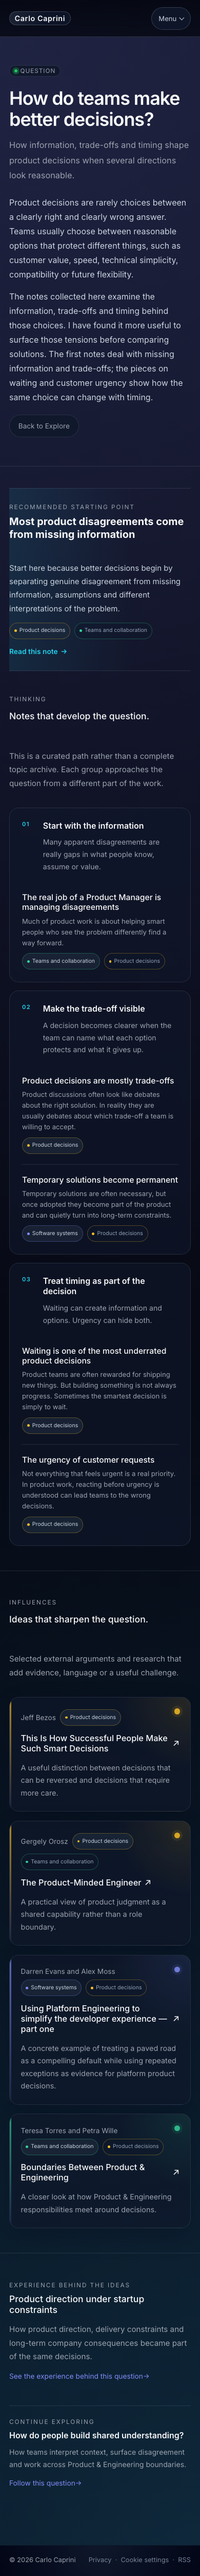
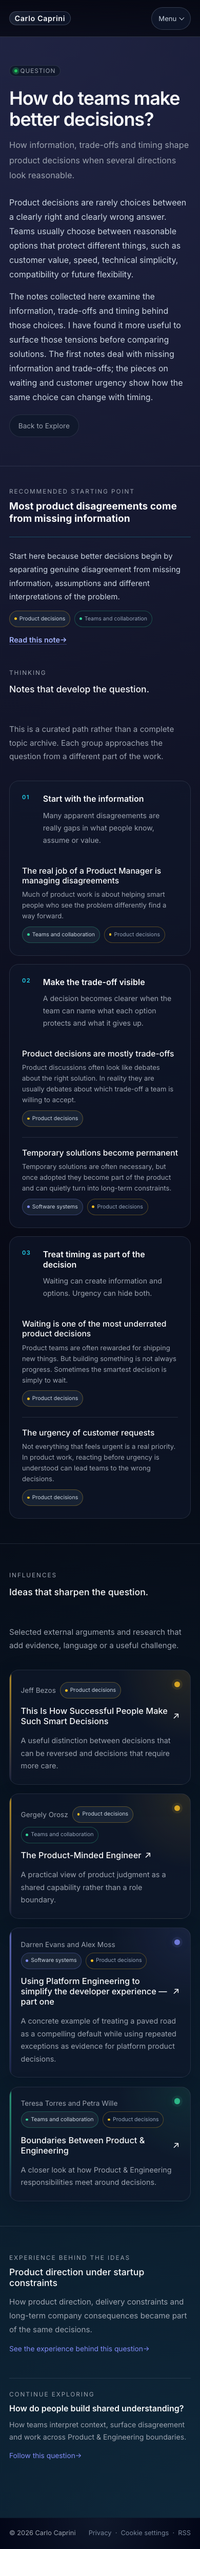
refactor: align Explore entry points with design system

Changed region(s): [[0.0308, 0.1874, 0.9538, 0.9682], [0.0308, 0.0312, 0.8923, 0.1562]]

diff --git a/_includes/styles/thinking-and-explore.css b/_includes/styles/thinking-and-explore.css
@@ -491,7 +491,7 @@ a.content-topic-link:hover {
 
 .question-path-entry-label {
   color: var(--brand-accent);
-  font-size: 0.68rem;
+  font-size: 0.7rem;
   font-weight: 600;
   letter-spacing: 0.08em;
   text-transform: uppercase;
@@ -534,20 +534,21 @@ a.content-topic-link:hover {
 .question-entry-point {
   display: grid;
   grid-template-columns: minmax(0, 0.8fr) minmax(0, 1.2fr);
-  gap: 2.5rem;
+  gap: 0;
   align-items: start;
-  padding: 1.8rem 0;
-  border-top: 1px solid var(--color-line);
-  border-bottom: 1px solid var(--color-line);
-  background: linear-gradient(90deg, var(--brand-accent-soft), transparent 68%);
 }
 
 .question-entry-heading h2 {
   max-width: 30rem;
   margin: 0.55rem 0 0;
   color: var(--color-text);
-  font-size: clamp(1.25rem, 2vw, 1.65rem);
+  font-size: clamp(1.2rem, 1.8vw, 1.45rem);
   line-height: 1.25;
+}
+
+.question-entry-content {
+  padding-left: 2.5rem;
+  border-left: 1px solid var(--brand-accent-border);
 }
 
 .question-entry-content p {
@@ -562,19 +563,9 @@ a.content-topic-link:hover {
   margin-top: 0.85rem;
 }
 
-.question-entry-link {
-  display: inline-flex;
-  gap: 0.35rem;
+.question-entry-content .question-entry-link {
   margin-top: 1rem;
-  color: var(--brand-accent);
-  font-size: 0.86rem;
   font-weight: 600;
-  text-decoration: none;
-}
-
-.question-entry-link:hover {
-  text-decoration: underline;
-  text-underline-offset: 0.2em;
 }
 
 .question-note-groups {

diff --git a/tests/browser/editorial-journeys.spec.js b/tests/browser/editorial-journeys.spec.js
@@ -203,7 +203,11 @@ test("question pages connect Thinking, Influences and Experience", async ({ page
   await expect(entryPoint.getByText("Recommended starting point", { exact: true })).toBeVisible();
   await expect(entryPoint.getByRole("heading", { name: "Most product disagreements come from missing information" })).toBeVisible();
   await expect(entryPoint.getByText("Start here because better decisions begin by separating genuine disagreement from missing information, assumptions and different interpretations of the problem.", { exact: true })).toBeVisible();
+  await expect(entryPoint).toHaveCSS("background-image", "none");
+  await expect(entryPoint).toHaveCSS("border-radius", "0px");
+  await expect(entryPoint.locator(".content-topic-list a")).toHaveCount(0);
   const entryLink = entryPoint.getByRole("link", { name: "Read this note: Most product disagreements come from missing information" });
+  await expect(entryLink).toHaveClass(/section-link/);
   await expect(entryLink).toHaveAttribute("href", "/thinking/most-product-disagreements-come-from-missing-information/");
   await expect(entryLink).toHaveAttribute("data-analytics-link-context", "question_entry_point");
   await expect(page.locator('a[href="/thinking/most-product-disagreements-come-from-missing-information/"]')).toHaveCount(1);

diff --git a/_layouts/question.html b/_layouts/question.html
@@ -40,7 +40,7 @@ layout: default
           <span class="content-topic-list" aria-label="Topics">
             {% include content-topic-items.html topics=entry_note.topics %}
           </span>
-          <a class="question-entry-link" href="{{ entry_note.url | relative_url }}" aria-label="Read this note: {{ entry_note.title | escape }}" data-analytics-event="note_open" data-analytics-note-id="{{ entry_note.url | escape }}" data-analytics-question-id="{{ question.slug | escape }}" data-analytics-link-context="question_entry_point">Read this note <span aria-hidden="true">→</span></a>
+          <a class="section-link question-entry-link" href="{{ entry_note.url | relative_url }}" aria-label="Read this note: {{ entry_note.title | escape }}" data-analytics-event="note_open" data-analytics-note-id="{{ entry_note.url | escape }}" data-analytics-question-id="{{ question.slug | escape }}" data-analytics-link-context="question_entry_point">Read this note <span aria-hidden="true">→</span></a>
         </div>
       </article>
     </div>

diff --git a/_includes/styles/responsive.css b/_includes/styles/responsive.css
@@ -256,6 +256,14 @@
     grid-template-columns: minmax(0, 1fr);
   }
 
+  .question-entry-content {
+    margin-top: 1.5rem;
+    padding-top: 1.5rem;
+    padding-left: 0;
+    border-top: 1px solid var(--brand-accent-border);
+    border-left: 0;
+  }
+
   .question-continue {
     padding-top: 1.5rem;
     padding-left: 0;

diff --git a/docs/design-system.md b/docs/design-system.md
@@ -1,7 +1,7 @@
 # Site Design System
 
 Date: 2026-07-14
-Last updated: 2026-08-25
+Last updated: 2026-09-21
 Status: Reference for future site changes
 
 ## Implementation ownership
@@ -518,6 +518,10 @@ Keep:
 - Questions, Series and Topics in that order, with Explore as the canonical Series discovery surface
 - explicit Explore entry points from Home, Thinking and Influences
 - three mature Questions presented as editorial paths, not dashboard tiles
+- one explicit recommended Note per Question: Explore names it as compact supporting text inside the existing Question link, while the Question page presents its title, editorial rationale and one reading CTA before the grouped path
+- the recommended Note presented as an editorial split on the page surface, with a vertical rule on desktop and a horizontal rule on smaller screens; it is not a card, featured panel or second hero
+- a recommended-Note title one restrained step above the standard section-title scale, because it names the content to read rather than another page section; it must remain clearly below hero scale
+- the recommended Note's Topic chips as static metadata on the Question page; they identify the Note rather than the Question and remain non-interactive so they do not introduce a competing navigation choice
 - compact numbered Series rows between Questions and Topics, using Topic color only as an orientation marker
 - one dedicated page per Question, with grouped notes, selected Influences, an Experience bridge and one continuation path
 - shared topic navigation below the curated Questions
@@ -535,6 +539,8 @@ Avoid:
 - mixed Knowledge and Explore terminology
 - dashboard metrics
 - graph-like decoration without navigational value
+- repeating the recommended Note again inside the grouped Question path
+- giving the recommended Note a separate panel, gradient, Topic-colored background or oversized CTA
 - chronological emphasis
 - search controls until the content volume justifies them
 
